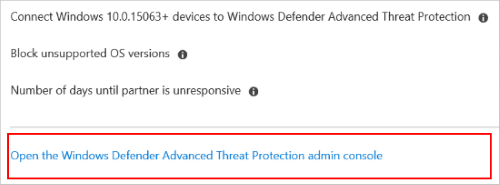
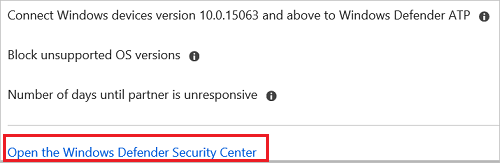
1805 doc updates

diff --git a/intune/compliance-policy-create-windows.md b/intune/compliance-policy-create-windows.md
@@ -7,7 +7,7 @@ keywords:
 author: MandiOhlinger
 ms.author: mandia
 manager: dougeby
-ms.date: 04/26/2018
+ms.date: 05/16/2018
 ms.topic: article
 ms.prod:
 ms.service: microsoft-intune
@@ -116,11 +116,6 @@ Windows 8.1 PCs return a version of **3**. If the OS version rule is set to Wind
 - **Require BitLocker**: When BitLocker is on, the device can protect data stored on the drive from unauthorized access when the system is turned off, or goes to hibernation. Windows BitLocker Drive Encryption encrypts all data stored on the Windows operating system volume. BitLocker uses the TPM to help protect the Windows operating system and user data. It also helps to ensure that a computer is not tampered with, even if it's left unattended, lost, or stolen. If the computer is equipped with a compatible TPM, BitLocker uses the TPM to lock the encryption keys that protect the data. As a result, the keys cannot be accessed until the TPM has verified the state of the computer.
 - **Require Secure Boot to be enabled on the device**: When Secure Boot is enabled, the system is forced to boot to a factory trusted state. Also, when Secure Boot is enabled, the core components used to boot the machine must have correct cryptographic signatures that are trusted by the organization that manufactured the device. The UEFI firmware verifies the signature before it lets the machine start. If any files have been tampered with, breaking their signature, the system will not boot.
 - **Require code integrity**: Code integrity is a feature that validates the integrity of a driver or system file each time it's loaded into memory. Code integrity detects whether an unsigned driver or system file is being loaded into the kernel. Or whether a system file has been modified by malicious software run by a user account with administrator privileges.
-- **Require the device to be at or under the Device Threat Level**: Use this setting to take the risk assessment from your defense threat services as a condition for compliance. Choose the maximum allowed threat level:
-  - **Secured**: This option is the most secure, as the device can't have any threats. If the device is detected as having any level of threats, it is evaluated as noncompliant.
-  - **Low**: The device is evaluated as compliant if only low-level threats are present. Anything higher puts the device in a noncompliant status.
-  - **Medium**: The device is evaluated as compliant if existing threats on the device are low or medium level. If the device is detected to have high-level threats, it is determined to be noncompliant.
-  - **High**: This option is the least secure, and allows all threat levels. It may be useful if you're using this solution only for reporting purposes.
 
 See [Health Attestation CSP](https://docs.microsoft.com/windows/client-management/mdm/healthattestation-csp) for details on how the HAS service works.
 
@@ -166,9 +161,17 @@ See [Health Attestation CSP](https://docs.microsoft.com/windows/client-managemen
 - **Number of previous passwords to prevent reuse**: Enter the number of previously used passwords that cannot be used.
 - **Require password when device returns from idle state (Mobile and Holographic)**: Force users to enter the password every time the device returns from an idle state.
 
-### Encryption
+#### Encryption
 
 - **Encryption of data storage on a device**: Choose **Require** to encrypt data storage on your devices.
+
+### Windows Defender ATP
+
+- **Require the device to be at or under the machine risk score**: Use this setting to take the risk assessment from your defense threat services as a condition for compliance. Choose the maximum allowed threat level:
+  - **Clear**: This option is the most secure, as the device can't have any threats. If the device is detected as having any level of threats, it is evaluated as noncompliant.
+  - **Low**: The device is evaluated as compliant if only low-level threats are present. Anything higher puts the device in a noncompliant status.
+  - **Medium**: The device is evaluated as compliant if existing threats on the device are low or medium level. If the device is detected to have high-level threats, it is determined to be noncompliant.
+  - **High**: This option is the least secure, and allows all threat levels. It may be useful if you're using this solution only for reporting purposes.
 
 ## Windows Holographic for Business
 

diff --git a/intune/advanced-threat-protection.md b/intune/advanced-threat-protection.md
@@ -7,7 +7,7 @@ keywords:
 author: MandiOhlinger
 ms.author: mandia
 manager: dougeby
-ms.date: 4/24/2018
+ms.date: 5/16/2018
 
 ms.topic: article
 ms.prod:
@@ -58,19 +58,19 @@ To use ATP with Intune, be sure you have the following configured, and ready to 
 
 1. Sign in to the [Azure portal](https://portal.azure.com).
 2. Select **All services**, filter on **Intune**, and select **Microsoft Intune**.
-3. Select **Device compliance** > **Windows Defender ATP** > **Open the Windows Defender Advanced Threat Protection admin console**.
+3. Select **Device compliance** > **Windows Defender ATP** > **Open the Windows Defender Security Center**.
 
-    ![Alt text](./media/atp-device-compliance-open-windows-defender.png)
+    ![Select to open the Windows Defender Security Center](./media/atp-device-compliance-open-windows-defender.png)
 
 4. In the **Windows Defender Security Center**:
     1. Select **Settings** > **Advanced features**.
     2. For **Microsoft Intune connection**, choose **On**:
 
-        ![Alt text](./media/atp-security-center-intune-toggle.png)
+        ![Enable the connection to Intune](./media/atp-security-center-intune-toggle.png)
 
     3. Select **Save preferences**.
 
-5. Go back to Intune, **Device compliance** > **Windows Defender ATP**. Set **Connect Windows 10.0.15063+ devices to Windows Defender Advanced Threat Protection** to **On**.
+5. Go back to Intune, **Device compliance** > **Windows Defender ATP**. Set **Connect Windows devices version 10.0.15063 and above to Windows Defender ATP** to **On**.
 6. Select **Save**.
 
 You typically do this task once. So if ATP is already enabled in your Intune resource, then you don't need to do it again.

diff --git a/intune/vpn-settings-configure.md b/intune/vpn-settings-configure.md
@@ -7,7 +7,7 @@ keywords:
 author: MandiOhlinger
 ms.author: mandia
 manager: dougeby
-ms.date: 04/5/2018
+ms.date: 05/15/2018
 ms.topic: article
 ms.prod:
 ms.service: microsoft-intune
@@ -47,14 +47,15 @@ You can create VPN profiles using the following connection types:
 
 |Connection type|Android<br>Android for Work|iOS|macOS|Windows Phone 8.1|Windows 8.1|Windows 10|
 |-|-|-|-|-|-|-|
+|Automatic|No|No|No|No|No|Yes|
+|Check Point Capsule VPN|Yes|Yes|Yes|Yes|Yes|Yes|
+|Cisco AnyConnect|Yes|Yes|Yes|No|No|No|
+|SonicWall Mobile Connect|Yes|Yes|Yes|Yes|Yes|Yes|
+|F5 Edge Client|Yes|Yes|Yes|Yes|Yes|Yes|
+|Palo Alto GlobalProtect|No|No|Yes|No|No|Yes|
 |Pulse Secure|Yes|Yes|Yes|Yes|Yes|Yes|
 |Cisco (IPSec)|No|Yes|No|No|No|No|
 |Citrix|Yes|Yes|No|No|No|Yes|
-|F5 Edge Client|Yes|Yes|Yes|Yes|Yes|Yes|
-|SonicWall Mobile Connect|Yes|Yes|Yes|Yes|Yes|Yes|
-|Check Point Capsule VPN|Yes|Yes|Yes|Yes|Yes|Yes|
-|Cisco AnyConnect|Yes|Yes|Yes|No|No|No|
-|Automatic|No|No|No|No|No|Yes|
 |IKEv2|No|No|No|No|No|Yes|
 |L2TP|No|No|No|No|No|Yes|
 |PPTP|No|No|No|No|No|Yes|

diff --git a/intune/vpn-setting-configure-per-app.md b/intune/vpn-setting-configure-per-app.md
@@ -7,7 +7,7 @@ keywords:
 author: MandiOhlinger
 ms.author: mandia
 manager: dougeby
-ms.date: 04/30/2018
+ms.date: 05/16/2018
 ms.topic: article
 ms.prod:
 ms.service: microsoft-intune
@@ -30,14 +30,14 @@ ms.custom: intune-azure
 
 You can specify which managed apps can use your Virtual Private Network (VPN) on iOS devices managed by Intune. When you create a per-app VPN in Intune, an end-user automatically connects through your VPN when accessing corporate documents.
 
-Per-App VPN is currently available for the following providers: 
+Per-App VPN is currently available for the following providers:
 
  - Checkpoint Remote Access VPN
  - Cisco AnyConnect
  - F5
  - Pulse Connect Secure
  - SonicWall
-
+ - Palo Alto GlobalProtect
 
 ## Prerequisites for Per-App VPN
 

diff --git a/intune/vpn-settings-ios.md b/intune/vpn-settings-ios.md
@@ -7,7 +7,7 @@ keywords:
 author: MandiOhlinger
 ms.author: mandia
 manager: dougeby
-ms.date: 4/17/2018
+ms.date: 5/16/2018
 ms.topic: article
 ms.prod:
 ms.service: microsoft-intune
@@ -49,6 +49,7 @@ Depending on the settings you choose, not all values in the following list are c
   - **Cisco Legacy AnyConnect**
   - **SonicWall Mobile Connect**
   - **F5 Edge Client**
+  - **Palo Alto GlobalProtect**
   - **Pulse Secure**
   - **Cisco (IPSec)**
   - **Citrix**

diff --git a/intune/vpn-settings-windows-10.md b/intune/vpn-settings-windows-10.md
@@ -7,7 +7,7 @@ keywords:
 author: MandiOhlinger
 ms.author: mandia
 manager: dougeby
-ms.date: 4/23/2018
+ms.date: 5/16/2018
 ms.topic: article
 ms.prod:
 ms.service: microsoft-intune
@@ -55,6 +55,7 @@ Depending on the settings you choose, not all values may be configurable.
   - **SonicWALL Mobile Connect**
   - **Check Point Capsule VPN**
   - **Citrix**
+  - **Palo Alto GlobalProtect**
   - **Automatic**
   - **IKEv2**
   - **L2TP**
